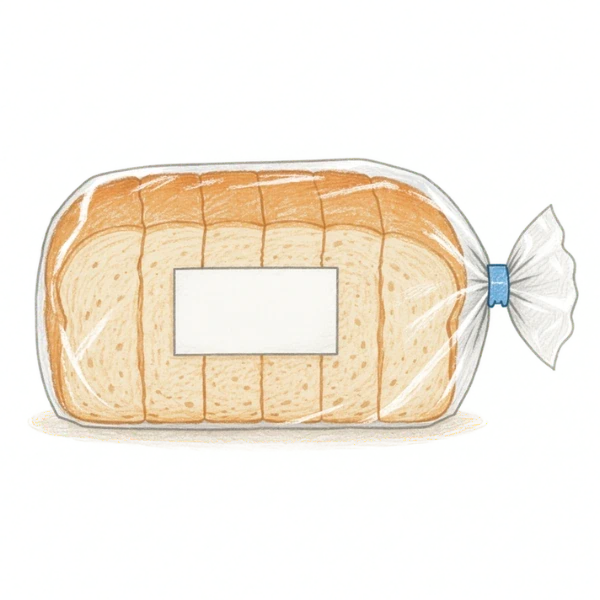
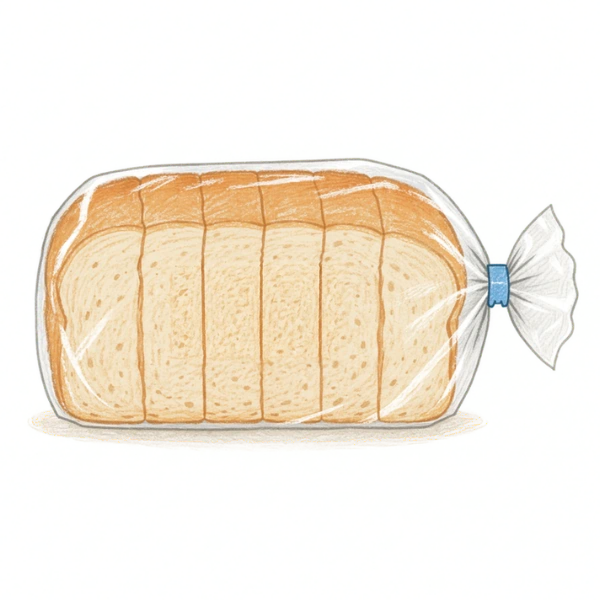
No dates on the packages, new pictures, and Level 3 dates printed many ways
Alex, 11/19 21:06 UTC: redesign everything with best judgment and
upload it. Each date now shows only in its big box, and the nine food
pictures are version 2 from the classroom-assets library (no label;
yogurt, juice, cereal and cheese redrawn). The title shapes are refit
to the new cut-outs.

Level 3 (Alex, 21:16 UTC) prints dates the many ways real packages do:
MM/DD/YY, MM-DD-YY, MM.DD.YY, crammed MMDDYY and MMDDYYYY, 28NOV26,
28 NOV 2026, NOV 28 2026, month and year only, PACKED ON next to
USE BY, and a time and lot code on the date's line.

Claude-Session: https://claude.ai/code/session_01GS4FCtH8NQj7wZM8dNiEyw

Changed region(s): [[0.27, 0.42, 0.57, 0.6]]

diff --git a/js/game.js b/js/game.js
@@ -3,14 +3,15 @@
    (js/ff-engine.js, an exact copy: sounds, tactile buttons, confetti, flying star, cheer line, round stamps, game-show win,
    narrator, opening page; Alex 11/19: "copy the entire game engine and framework of the fun friday game"). This file holds
    only what is new: the dates, the rounds, the calendar, the phone and the feedback. Pictures: Canva colored pencil,
-   from the classroom-assets library. Level 1 (Alex 11/19, 20:24 UTC): one food at a time, "Is it expired or not?".
-   Find the Date! (find/, built by its own thread, see find/README.md) starts from the level pick.
+   from the classroom-assets library. Alex 11/19 (20:20 UTC): no date on the packages in these three levels; each date is
+   shown in the big date box under its food. Level 1 (20:24 UTC): one food at a time, "Is it expired or not?".
+   Find the Date! (find/, built by its own thread) starts from the level pick.
    This is a public page: no student names or student data anywhere in it. */
 'use strict';
 /* From the engine: $, i (the round, 0-5), done (rounds won), easy (hint on), sound, calm, unit, SFX, say, stamps, burst,
    flyStar, party, bigWin, speak, hush, showOpen, opened. */
 const Q=new URLSearchParams(location.search);
-const gunit=()=>Math.min(innerHeight/100,innerWidth*.005625,(innerWidth-32)/175);   /* = this game's --u in the CSS */
+const gunit=()=>Math.min(innerHeight/100,innerWidth*.005625,(innerWidth-32)/175);   /* = this game's --u in the CSS (Find the Date uses it) */
 
 /* ---------- random numbers (?seed=N repeats the same rounds, for testing) ---------- */
 let seed=(Number(Q.get('seed'))>>>0)||0;
@@ -35,19 +36,18 @@ function realToday(){
 }
 
 /* ---------- the foods ----------
-   box = where the blank label sits on the 600 px Canva picture (% of the picture, measured from its pixels: labelbox.py);
    kw = the key word printed before the date; drink / many change the words we say. */
 const ART='assets/foods/';
 const FOODS={
-  milk:     {alt:'Milk carton',        noun:'milk',      kw:'USE BY',  drink:1,box:[31.2,33.7,24,17.6],rot:1.7},
-  bread:    {alt:'Bag of bread',       noun:'bread',     kw:'BEST BY', box:[29.3,45,26.5,13.7]},
-  eggs:     {alt:'Egg carton',         noun:'eggs',      kw:'EXP',     many:1,box:[35.7,47,41.3,9.7],sk:-5.8},
-  yogurt:   {alt:'Yogurt cup',         noun:'yogurt',    kw:'USE BY',  box:[32.6,52.8,33.6,16.2]},
-  juice:    {alt:'Orange juice bottle',noun:'juice',     kw:'BEST BY', drink:1,box:[38.8,48.7,22.2,15.7]},
-  cheese:   {alt:'Swiss cheese',       noun:'cheese',    kw:'EXP',     box:[35.7,45.2,30.7,16.1],rot:4},
-  tortillas:{alt:'Bag of tortillas',   noun:'tortillas', kw:'BEST BY', many:1,box:[33,41.7,33.8,15.5]},
-  cereal:   {alt:'Cereal box',         noun:'cereal',    kw:'BEST IF USED BY',box:[32.3,19.2,41.2,15.5],sk:-3.4},
-  soup:     {alt:'Can of soup',        noun:'soup',      kw:'BEST BY', box:[31.3,33.5,37,10.2]}
+  milk:     {alt:'Milk carton',        noun:'milk',      kw:'USE BY',  drink:1},
+  bread:    {alt:'Bag of bread',       noun:'bread',     kw:'BEST BY'},
+  eggs:     {alt:'Egg carton',         noun:'eggs',      kw:'EXP',     many:1},
+  yogurt:   {alt:'Yogurt cup',         noun:'yogurt',    kw:'USE BY'},
+  juice:    {alt:'Orange juice bottle',noun:'juice',     kw:'BEST BY', drink:1},
+  cheese:   {alt:'Swiss cheese',       noun:'cheese',    kw:'EXP'},
+  tortillas:{alt:'Bag of tortillas',   noun:'tortillas', kw:'BEST BY', many:1},
+  cereal:   {alt:'Cereal box',         noun:'cereal',    kw:'BEST IF USED BY'},
+  soup:     {alt:'Can of soup',        noun:'soup',      kw:'BEST BY'}
 };
 
 /* ---------- the rounds (teacher plan: each level fades one support; see README) ----------
@@ -66,13 +66,21 @@ const LEVELS=[
     {foods:['eggs','juice','cheese'],kinds:['prevM','nextM','pastM']},
     {foods:['milk','tortillas','bread'],kinds:['prevM','futM','yest']},
     {foods:['cheese','eggs','yogurt'],kinds:['nextM','pastM','prevM']}]},
+  /* Level 3: each date is printed a different way, as on real packages (Alex 11/19, 21:16 UTC: "the expiration date should be
+     printed in many different ways ... just crammed in ... crammed in with other numbers"). Formats from the Find the Date
+     Level 4 research (CFIA, USDA FSIS, Keyence, UEP): slashes, dashes, dots, no separators at all, a month word, month and year
+     only, PACKED ON next to USE BY, and times and lot codes on the same line. No Julian codes and no day-first numbers.
+     fmt: md/yy 11/28/26, md/yyyy 11/28/2026, md-yy 11-28-26, md.yy 11.28.26, mdyy 112826, mdyyyy 11282026, dMONyy 28NOV26,
+          d MON yyyy 28 NOV 2026, mon NOV 28 2026, MONyyyy NOV 2026 (never this month).
+     lay: '' key word, then the date; one = key word and date on one line; lot = a lot code and time line under it;
+          cram = the date with a time and a lot code on one line; packed = PACKED ON and its date, then the key word and date. */
   {name:'Level 3',hintAfter:2,rounds:[
-    {foods:['bread','yogurt','eggs'],kinds:['pastM','futM','nextM'],fixed:true},
-    {foods:['milk','cheese','juice'],kinds:['futM','pastM','yest']},
-    {foods:['tortillas','milk','yogurt'],kinds:['nextM','prevM','futM'],fmt:['md/yyyy']},
-    {foods:['cereal','bread','eggs'],kinds:['nextY','pastM','soon'],fmt:['mon'],lot:true,year:true},
-    {foods:['soup','juice','cheese'],kinds:['prevY','futM','nextM'],fmt:['md/yyyy'],lot:true,year:true},
-    {foods:['cereal','tortillas','soup'],kinds:['nextY','futM','soon'],fmt:['mon','md/yyyy','md/yyyy'],lot:true,year:true}]}
+    {foods:['bread','yogurt','eggs'],kinds:['pastM','futM','nextM'],fmt:['md/yy','md-yy','dMONyy'],fixed:true},
+    {foods:['milk','cheese','juice'],kinds:['futM','pastM','yest'],fmt:['mdyy','md.yy','mon'],lay:['one']},
+    {foods:['tortillas','milk','yogurt'],kinds:['nextM','prevM','futM'],fmt:['md/yyyy','mdyyyy','d MON yyyy'],lay:['lot','cram'],kw:{milk:'BB'}},
+    {foods:['cereal','bread','eggs'],kinds:['nextY','pastM','soon'],fmt:['MONyyyy','mdyy','md-yy'],lay:['','cram','lot'],kw:{bread:'BB'},year:true},
+    {foods:['soup','juice','cheese'],kinds:['prevY','futM','nextM'],fmt:['md/yyyy','mdyy','md/yy'],lay:['lot','cram','packed'],kw:{cheese:'USE BY'},year:true},
+    {foods:['cereal','tortillas','soup'],kinds:['nextY','futM','soon'],fmt:['mon','dMONyy','mdyyyy'],lay:['lot','cram','lot'],kw:{tortillas:'BB'},year:true}]}
 ];
 
 /* ---------- state ---------- */
@@ -97,12 +105,18 @@ function l1Kinds(){
     if(!k.some((x,j)=>j>1&&x===k[j-1]&&x===k[j-2]))return k}
 }
 function lotCode(){return 'L'+ri(1,9)+ri(100,999)+' '+p2(ri(5,22))+':'+p2(ri(0,59))}
+function cramTail(){return p2(ri(5,22))+':'+p2(ri(0,59))+' L'+ri(1,9)}   /* the time and lot code printed on the date's line */
 function makeRound(plan){
   for(let n=0;n<80;n++){
-    const cards=plan.foods.map((f,i)=>{const d=makeDate(plan.kinds[i]);
-      return {food:f,kind:plan.kinds[i],date:d,good:d>T,kw:(plan.kw&&plan.kw[f])||FOODS[f].kw,fmt:(plan.fmt&&plan.fmt[i])||'md/yy',lot:plan.lot?lotCode():''}});
-    const ks=cards.map(c=>key(c.date));
+    const cards=plan.foods.map((f,i)=>{const d=makeDate(plan.kinds[i]),lay=(plan.lay&&plan.lay[i])||'';
+      const c={food:f,kind:plan.kinds[i],date:d,good:d>T,kw:(plan.kw&&plan.kw[f])||FOODS[f].kw,fmt:(plan.fmt&&plan.fmt[i])||'md/yy',lay,
+        lot:lay==='lot'?lotCode():'',tail:lay==='cram'?cramTail():''};
+      if(lay==='packed')c.packed=new Date(T.getFullYear(),T.getMonth(),T.getDate()-ri(2,8));   /* packed a few days ago */
+      return c});
+    const ks=cards.map(c=>key(c.date)).concat(cards.filter(c=>c.packed).map(c=>key(c.packed)));
     if(new Set(ks).size<ks.length||ks.includes(key(T)))continue;
+    if(cards.some(c=>c.fmt==='MONyyyy'&&ym(c.date)===ym(T)))continue;   /* month and year only: never this month (it can't be judged) */
+    if(cards.some(c=>c.packed&&!(c.packed<c.date&&c.packed<T)))continue;
     return {plan,cards:plan.fixed?cards:shuffle(cards)};
   }
 }
@@ -118,13 +132,16 @@ function newLevel(n){
 }
 
 /* ---------- words ---------- */
-function printed(c){                                  /* the date as it is printed on the package */
-  const d=c.date,M=MON[d.getMonth()],dd=d.getDate(),mm=p2(d.getMonth()+1);
-  if(LV<2)return M+' '+dd;
-  if(c.fmt==='md/yyyy')return mm+'/'+p2(dd)+'/'+d.getFullYear();
-  if(c.fmt==='mon')return M+' '+p2(dd)+' '+d.getFullYear();
-  return mm+'/'+p2(dd)+'/'+p2(d.getFullYear()%100);
+function printed(c,d){                                /* the date as it is printed on the package (d: another date on it) */
+  d=d||c.date;const M=MON[d.getMonth()],dd=p2(d.getDate()),mm=p2(d.getMonth()+1),Y=String(d.getFullYear()),yy=Y.slice(2);
+  if(LV<2)return M+' '+d.getDate();
+  return {'md/yyyy':mm+'/'+dd+'/'+Y,'md-yy':mm+'-'+dd+'-'+yy,'md.yy':mm+'.'+dd+'.'+yy,'mdyy':mm+dd+yy,'mdyyyy':mm+dd+Y,
+    'dMONyy':dd+M+yy,'d MON yyyy':dd+' '+M+' '+Y,'mon':M+' '+dd+' '+Y,'MONyyyy':M+' '+Y}[c.fmt]||mm+'/'+dd+'/'+yy;
 }
+/* Level 3: a crammed date read back in the phone's numbers, so the class hears how to read it */
+const CRAMMED={'mdyy':1,'mdyyyy':1,'dMONyy':1};
+function plain(c){const d=c.date;return c.fmt==='dMONyy'?MON[d.getMonth()]+' '+d.getDate()+' '+d.getFullYear():p2(d.getMonth()+1)+'/'+p2(d.getDate())+'/'+p2(d.getFullYear()%100)}
+function dateSaid(c){return LV===2&&CRAMMED[c.fmt]?printed(c)+' means '+plain(c)+'. It '+why(c):printed(c)+' '+why(c)}
 const WHY={pastM:'is before today',yest:'was yesterday',futM:'is after today',soon:'is tomorrow',prevM:'was last month',nextM:'is next month',nextY:'is next year',prevY:'was last year'};
 function why(c){
   const sameM=ym(c.date)===ym(T);
@@ -133,34 +150,35 @@ function why(c){
 }
 const it=c=>FOODS[c.food].many?'them':'it';
 const eat=c=>FOODS[c.food].drink?'drink':'eat';
-function goodLine(c){return 'Still good! '+printed(c)+' '+why(c)+'.'}
-function badLine(c){return 'Expired! '+printed(c)+' '+why(c)+'. Don’t '+eat(c)+' '+it(c)+'.'}
+const PACKNOTE=' PACKED ON is the day it was packed.';
+function goodLine(c){return 'Still good! '+dateSaid(c)+'.'+(c.packed?PACKNOTE:'')}
+function badLine(c){return 'Expired! '+dateSaid(c)+'. Don’t '+eat(c)+' '+it(c)+'.'}
 function spoken(c){const d=c.date;return MONTH[d.getMonth()]+' '+d.getDate()+', '+d.getFullYear()}
 
 /* ---------- the pieces of a round ---------- */
 function dotLine(s,cls){return dotText(s).replace('class="dots"','class="dots '+cls+'"')}
 function kwLines(kw){return kw==='BEST IF USED BY'?['BEST IF','USED BY']:[kw]}
 const cols=s=>s.length*6-1;                          /* dot columns of a dot-matrix line */
-function labelParts(c,dpw){
-  const f=FOODS[c.food],t=printed(c);
-  if(LV===0){const [M,dd]=t.split(' ');
-    return {small:'<span class="mo">'+M+'</span><span class="dd">'+dd+'</span>',big:'<div class="row"><span class="mo">'+M+'</span><span class="dd">'+dd+'</span></div>'}}
-  if(LV===1)return {small:'<span class="kw">'+c.kw+'</span><span class="dt">'+t+'</span>',big:'<span class="kw'+(c.kw.length>8?' long':'')+'">'+c.kw+'</span><span class="dt">'+t+'</span>'};
-  /* Level 3: dot-matrix print, like a real inkjet date. The small copy on the package gets a dot size that fits its label. */
-  const lines=[...kwLines(c.kw).map(s=>[s,'kline']),[t,'dline']];if(c.lot)lines.push([c.lot,'lot']);
-  const h=lines.map(([s,k])=>dotLine(s,k)).join('');
-  const [,,lw,lh]=f.box,mc=Math.max(...lines.map(([s])=>cols(s))),n=lines.length;
-  const dp=Math.min(.3,.86*lw/mc,.86*lh/(8.6*n-1.6));
-  return {small:h,big:h,st:'--dp:'+dp.toFixed(3)+'cqw'};
+function dateBox(c){                                  /* the big date box under a food (the package itself has no date) */
+  const t=printed(c);
+  if(LV===0){const [M,dd]=t.split(' ');return '<div class="row"><span class="mo">'+M+'</span><span class="dd">'+dd+'</span></div>'}
+  if(LV===1)return '<span class="kw'+(c.kw.length>8?' long':'')+'">'+c.kw+'</span><span class="dt">'+t+'</span>';
+  /* Level 3: dot-matrix print, like a real inkjet date */
+  return labelLines(c).map(([s,k])=>dotLine(s,k)).join('');
+}
+/* Level 3: the printed lines of a label, [text, kind], in the round's layout for this food */
+function labelLines(c){
+  const t=printed(c),kw=kwLines(c.kw).map(s=>[s,'kline']);
+  if(c.lay==='one')return [[c.kw+' '+t,'dline one']];
+  if(c.lay==='cram')return [...kw,[t+' '+c.tail,'dline']];
+  if(c.lay==='packed')return [['PACKED ON','kline'],[printed(c,c.packed),'pline'],...kw.map(([s])=>[s,'kline after']),[t,'dline']];
+  return [...kw,[t,'dline'],...(c.lot?[[c.lot,'lot']]:[])];
 }
 /* a food card. Levels 2 and 3: the card is the answer (tap it). Level 1: the card only shows the food; the answer buttons are beside it. */
 function cardHTML(c,i){
-  const f=FOODS[c.food],[lx,ly,lw,lh]=f.box,lab=labelParts(c);
-  const wide=LV===0&&lw/lh>2.6?' wide':'',tag=LV===0?'div':'button',role=LV===0?' role="img"':'';
+  const tag=LV===0?'div':'button',role=LV===0?' role="img"':'';
   return '<'+tag+' class="choice food" style="--i:'+i+'" data-i="'+i+'"'+role+' aria-label="'+tileWords(c)+'">'+
-    '<div class="pic" style="--lx:'+lx+'%;--ly:'+ly+'%;--lw:'+lw+'%;--lh:'+lh+'%;--rot:'+(f.rot||0)+'deg;--sk:'+(f.sk||0)+'deg">'+
-    '<img src="'+ART+c.food+'.webp" alt="" draggable="false"><div class="plabel'+wide+'"'+(lab.st?' style="'+lab.st+'"':'')+'>'+lab.small+'</div></div>'+
-    '<svg class="cone" aria-hidden="true"></svg><div class="win">'+lab.big+'</div></'+tag+'>';
+    '<div class="pic"><img src="'+ART+c.food+'.webp" alt="" draggable="false"></div><div class="win">'+dateBox(c)+'</div></'+tag+'>';
 }
 /* Level 1: the two answers, always in the same place (Expired on top), in the words of the question */
 const ICON={bad:'<path d="M7 7l10 10M17 7L7 17"/>',good:'<path d="M5.5 12.5l4.2 4.2L18.5 7.5"/>'};
@@ -230,7 +248,6 @@ function setHint(on,auto){
   if(on){h.textContent=HINT[LV]();h.hidden=false;cardsOf().forEach(c=>pin(c,true))}
   else{document.querySelectorAll('#main .pin[data-h]').forEach(p=>{const host=p.parentNode;p.remove();if(host&&!host.querySelector('.pin'))host.classList.remove('lit')});
     if(i===0){h.textContent=TOGETHER[LV];h.hidden=false}else h.hidden=true}
-  cones();
 }
 function miss(){tries++;if(!easy&&tries>=LEVELS[LV].hintAfter)setHint(true,true)}
 
@@ -267,7 +284,8 @@ function checkDone(){
     bad.forEach(c=>{c.el.classList.remove('sel');c.el.classList.add('no');verdict(c)});
     SFX.oops();say(bad.length===1?badLine(bad[0]):'Those are expired. Their dates are before today.',true);miss();doneState();return}
   const left=cs.filter(c=>c.good&&!c.el.classList.contains('sel'));
-  if(left.length){SFX.oops();say(left.length===1?'There is 1 more food that is still good.':'There are '+left.length+' more foods that are still good.',true);miss();return}
+  if(left.length){SFX.oops();say((left.length===1?'There is 1 more food that is still good.':'There are '+left.length+' more foods that are still good.')+
+    (left.some(c=>c.packed)?' Check USE BY, not PACKED ON.':''),true);miss();return}
   cs.forEach(c=>{verdict(c);if(c.good){c.el.classList.remove('sel');c.el.classList.add('yes')}else c.el.classList.add('rest')});
   say(sel.length===cs.length?'All still good! Every date is after today.':'You found them all!');
   finish(sel[sel.length-1].el);
@@ -284,9 +302,9 @@ function renderRound(){
   const side=LV===2?phoneHTML(rd):calHTML(rd),cards=rd.cards.map(cardHTML);
   /* Level 3 prints every label in a round with the same dot size, sized to the longest line */
   let dpw='';
-  if(LV===2){const mc=Math.max(...rd.cards.flatMap(c=>[...kwLines(c.kw),printed(c),c.lot].filter(Boolean).map(cols)));dpw=' style="--dpw:calc(var(--u)*'+Math.min(.6,34.6/mc).toFixed(3)+')"'}
+  if(LV===2){const mc=Math.max(...rd.cards.flatMap(c=>labelLines(c).map(([s])=>cols(s))));dpw=' style="--dpw:calc(var(--u)*'+Math.min(.6,34.6/mc).toFixed(3)+')"'}
   m.className='';void m.offsetWidth;
-  const dense=LV===2&&rd.cards.some(c=>kwLines(c.kw).length+1+(c.lot?1:0)>3)?' dense':'';
+  const dense=LV===2&&rd.cards.some(c=>labelLines(c).length>3)?' dense':'';
   m.innerHTML='<div class="qrow"><h1 id="q">'+q+'</h1><p class="hint" id="hint"'+(i===0?'':' hidden')+'>'+(i===0?TOGETHER[LV]:'')+'</p></div>'+
     '<div class="stage'+dense+'"'+dpw+'>'+(LV===0?cards[0]+side+answersHTML():side+cards.join(''))+'</div>';
   m.classList.add('enter');
@@ -294,32 +312,7 @@ function renderRound(){
   m.querySelectorAll('.ans').forEach(b=>b.onclick=()=>answer(b));
   $('next').hidden=!done.has(i);$('donebtn').hidden=LV!==2||done.has(i);$('skip').hidden=false;
   if(LV===2)timer=setInterval(()=>{const p=$('ptime');if(p)p.textContent=clockNow()},15000);
-  fitLabels();requestAnimationFrame(cones);setTimeout(cones,520);
 }
-/* Levels 1 and 2: shrink the small printed label if a word is too long for that package's label */
-function fitLabels(){
-  if(LV===2)return;
-  document.querySelectorAll('#main .plabel').forEach(el=>{
-    let s=1;el.style.setProperty('--ls',1);
-    const kids=[...el.children],row=el.classList.contains('wide');
-    const fits=()=>{const W=el.clientWidth,H=el.clientHeight;
-      const w=row?kids.reduce((a,k)=>a+k.offsetWidth,0)*1.08:Math.max(...kids.map(k=>k.offsetWidth));
-      const h=row?Math.max(...kids.map(k=>k.offsetHeight)):kids.reduce((a,k)=>a+k.offsetHeight,0);
-      return w<=W*.94&&h<=H*.96};
-    while(!fits()&&s>.45){s-=.05;el.style.setProperty('--ls',s.toFixed(2))}
-  });
-}
-/* the "zoom" cone from the small label on the package to its big copy below */
-function cones(){
-  document.querySelectorAll('#main .food').forEach(c=>{
-    const cr=c.getBoundingClientRect(),l=c.querySelector('.plabel').getBoundingClientRect(),w=c.querySelector('.win').getBoundingClientRect(),svg=c.querySelector('.cone');
-    if(!cr.width)return;
-    svg.setAttribute('viewBox','0 0 '+cr.width.toFixed(1)+' '+cr.height.toFixed(1));
-    const pt=(x,y)=>(x-cr.left).toFixed(1)+','+(y-cr.top).toFixed(1),k=gunit()*.6;
-    svg.innerHTML='<polygon points="'+pt(l.left,l.top)+' '+pt(l.right,l.top)+' '+pt(w.right-k,w.top+k)+' '+pt(w.left+k,w.top+k)+'"/>';
-  });
-}
-addEventListener('resize',()=>{if(!$('game').hidden){fitLabels();cones()}});
 
 /* ---------- screens: the Fun Friday flow (Next and Skip go on, Back goes back, a whoosh between rounds, a party at the end) ---------- */
 function stopWin(){const ws=$('winstage');if(ws)WINFX.stop(ws)}
@@ -356,8 +349,9 @@ function showDone(){
    It reads the question when a round opens and the date on a package when it is tapped. Level 3 practises reading the printed
    date, so there it reads only the question. ---------- */
 const LINES={};
-const KWSAY={'USE BY':'Use by','BEST BY':'Best by','EXP':'Expires','BEST IF USED BY':'Best if used by'};
-function tileWords(c){return FOODS[c.food].alt+'. '+(LV===0?'':KWSAY[c.kw]+' ')+spoken(c)+'.'}
+const KWSAY={'USE BY':'Use by','BEST BY':'Best by','BB':'Best by','EXP':'Expires','BEST IF USED BY':'Best if used by'};
+function tileWords(c){const pk=c.packed?'Packed on '+MONTH[c.packed.getMonth()]+' '+c.packed.getDate()+', '+c.packed.getFullYear()+'. ':'';
+  return FOODS[c.food].alt+'. '+pk+(LV===0?'':KWSAY[c.kw]+' ')+(c.fmt==='MONyyyy'?MONTH[c.date.getMonth()]+' '+c.date.getFullYear():spoken(c))+'.'}
 function sayRound(){const q=$('q');if(q){LINES.q=q.textContent;speak('q',450)}}
 function sayTile(c){if(LV===2)return;LINES.t=tileWords(c);speak('t')}
 

diff --git a/css/game.css b/css/game.css
@@ -1,6 +1,7 @@
 /* Check the Date! This game's own screens, on top of the Fun Friday look and effects (ff-engine.css, loaded first).
-   The screens follow the sample pages Alex approved on 11/19 (Level 1, 2 and 3): food cards with the date label and a zoomed
-   copy, the wall calendar, the phone, plus the level pick and the level-done page in the same look.
+   The screens follow the sample pages Alex approved on 11/19 (Level 1, 2 and 3): food cards with a big date box, the wall
+   calendar, the phone, plus the level pick and the level-done page in the same look. Alex 11/19: no date on the packages
+   (the date box under each food has it); Level 1 shows one food and two answers, "Is it expired or not?".
    Pictures: Canva colored pencil, from the classroom-assets library. Every size is in --u, as in Fun Friday. */
 @font-face{font-family:"Baloo 2";src:url(../assets/fonts/baloo-2/Baloo2-latin-variable.woff2) format("woff2");font-weight:400 800;font-display:swap}
 @font-face{font-family:"Nunito";src:url(../assets/fonts/nunito/Nunito-latin-variable.woff2) format("woff2");font-weight:200 1000;font-display:swap}
@@ -32,20 +33,10 @@ main.enter .calwrap,main.enter .phonewrap{animation:rise .4s cubic-bezier(.2,1.2
 .l3 .stage{grid-template-columns:calc(var(--u)*28) repeat(3,calc(var(--u)*44))}
 .together-on .l1 .stage,.together-on.l1 .stage{grid-template-columns:calc(var(--u)*42) calc(var(--u)*62) calc(var(--u)*42)}
 
-/* ---------- a food = the package with its date label, and a big "zoomed" copy of that label so the whole class can read it ---------- */
+/* ---------- a food = the package (no date on it) and its big date box, so the whole class can read the date ---------- */
 .choice.food{padding:calc(var(--u)*1.4) calc(var(--u)*1.4) calc(var(--u)*2);gap:0}
-.pic{position:relative;width:100%;aspect-ratio:1;container-type:inline-size}
+.pic{position:relative;width:100%;aspect-ratio:1}
 .pic img{width:100%;height:100%;display:block;object-fit:contain;-webkit-user-drag:none;user-select:none}
-.plabel{position:absolute;left:var(--lx);top:var(--ly);width:var(--lw);height:var(--lh);transform:rotate(var(--rot,0deg)) skewY(var(--sk,0deg));transform-origin:0 50%;display:flex;flex-direction:column;align-items:center;justify-content:center;line-height:1;text-align:center;color:var(--ink);pointer-events:none;--dp:.3cqw}
-.plabel .mo,.plabel .dd,.plabel .dt{font-family:var(--display);font-weight:800}
-.l1 .plabel .mo{font-size:calc(5.2cqw*var(--ls,1))}.l1 .plabel .dd{font-size:calc(7.4cqw*var(--ls,1))}
-.plabel.wide{flex-direction:row;align-items:baseline;gap:.9cqw}
-.l2 .plabel .kw{font-family:var(--body);font-weight:900;font-size:calc(2.5cqw*var(--ls,1));letter-spacing:.05em}
-.l2 .plabel .dt{font-size:calc(5.2cqw*var(--ls,1))}
-.plabel .dots{height:auto;display:block;margin:calc(var(--dp)*.8) 0;opacity:.92}
-.plabel{overflow:hidden}
-.cone{position:absolute;inset:0;width:100%;height:100%;pointer-events:none;overflow:visible}
-.cone polygon{fill:rgba(31,111,214,.07);stroke:rgba(31,111,214,.28);stroke-width:2;stroke-linejoin:round}
 .win{position:relative;z-index:1;margin-top:calc(var(--u)*-1);background:#fff;border:calc(var(--u)*.35) solid var(--label);border-radius:calc(var(--u)*1.2);
   box-shadow:0 calc(var(--u)*.4) calc(var(--u)*1) rgba(18,48,92,.12);display:flex;flex-direction:column;align-items:center;justify-content:center;line-height:1;padding:calc(var(--u)*1.2) calc(var(--u)*2)}
 .win::before{content:"";position:absolute;left:calc(var(--u)*-2.2);top:calc(var(--u)*-2.2);width:calc(var(--u)*4.4);height:calc(var(--u)*4.4);border-radius:50%;
@@ -67,6 +58,10 @@ main.enter .calwrap,main.enter .phonewrap{animation:rise .4s cubic-bezier(.2,1.2
 /* a round where one date needs more lines (BEST IF USED BY): the cards stay one height, as in the approved samples; the picture keeps to the top, the zoomed copy to the bottom */
 .l3 .stage.dense>.choice.food{align-self:stretch;justify-content:space-between}
 .l3 .win .dots.lot{margin-top:calc(var(--u)*1.3);opacity:.85}
+.l3 .win .dots.one{margin-top:0}
+/* PACKED ON and its date, then the key word and the date that counts */
+.l3 .win .dots.pline{margin-top:calc(var(--u)*.7);opacity:.85}
+.l3 .win .dots.kline.after{margin-top:calc(var(--u)*1.3)}
 /* Level 1: the two answers, Expired on top, Not expired below (Fun Friday answer cards, with the Fun Friday word size) */
 .answers{display:flex;flex-direction:column;gap:calc(var(--u)*3.5)}
 .choice.ans{flex:1;justify-content:center;gap:calc(var(--u)*2);padding:calc(var(--u)*2)}

diff --git a/js/titlefx.js b/js/titlefx.js
@@ -5,8 +5,8 @@ const TFX=(()=>{
   const TD='assets/foods/';
   const FW=1920,FH=1080,R=Math.PI/180;
   /* each picture: box width, height (title-stage px) and the circles that cover its shape [x, y, r] from its centre (fitcircles.py) */
-  const SHAPE={"bread":[307.7,307.7,[[-66.8,0.5,70.6],[71.9,0.5,70.6]]],"cheese":[366.8,366.8,[[0.3,2.1,126.0]]],"eggs":[314.0,314.0,[[-62.6,-0.5,77.1],[63.1,-0.5,77.1]]],"juice":[310.0,310.0,[[1.0,-91.6,48.4],[1.0,0.0,48.4],[1.0,91.6,48.4]]],"milk":[314.6,314.6,[[-1.3,-75.6,65.9],[-1.3,72.5,65.9]]],"yogurt":[364.4,364.4,[[-0.6,5.5,126.0]]],
-    "tortillas":[347.8,347.8,[[-0.3,-0.6,126.0]]],"cereal":[331.4,331.4,[[-0.6,-54.2,88.3],[-0.6,49.2,88.3]]],"soup":[357.4,357.4,[[-0.3,-56.5,84.6],[-0.3,54.2,84.6]]]};
+  const SHAPE={"milk":[314.6,314.6,[[-1.3,-75.6,65.9],[-1.3,72.5,65.9]]],"bread":[307.7,307.7,[[-66.8,0.5,70.6],[71.9,0.5,70.6]]],"eggs":[314.0,314.0,[[-62.6,-0.5,77.1],[63.1,-0.5,77.1]]],"yogurt":[367.6,367.6,[[0.0,5.5,126.0]]],"juice":[315.2,315.2,[[0.3,-93.4,47.9],[0.3,-1.3,47.9],[0.3,90.8,47.9]]],"cheese":[371.7,371.7,[[0.3,2.2,126.0]]],
+    "tortillas":[347.8,347.8,[[-0.3,-0.6,126.0]]],"cereal":[328.8,328.8,[[-2.5,-46.6,93.6],[-2.5,46.1,93.6]]],"soup":[357.4,357.4,[[-0.3,-56.5,84.6],[-0.3,54.2,84.6]]]};
   /* picture, centre x, y, tilt (deg), layer (0 back, 1 middle, 2 front), size (1 = 280 px) */
   const ITEMS=[['milk',230,360,-8,1,1],['cheese',520,420,6,0,.9],['bread',250,760,-5,2,1],['eggs',520,885,4,1,.95],
     ['yogurt',1420,400,7,0,.9],['juice',1700,380,-6,2,1],['soup',1690,800,6,0,.9],['cereal',1430,870,-4,1,.95],

diff --git a/index.html b/index.html
@@ -43,7 +43,7 @@
       <button class="lvcard choice" data-l="2" style="--i:2">
         <span class="big">Level 3</span>
         <span class="art"><span class="mini-phone" aria-hidden="true"><span>Thursday<b>10:24</b></span></span><span class="mini-dots" id="minidots" aria-hidden="true"></span></span>
-        <span class="what">Printed dates. Today is on the phone.</span>
+        <span class="what">Dates printed many ways. Today is on the phone.</span>
       </button>
     </div>
     <!-- Find the Date! (find/): turn a package, find the date, say it -->

diff --git a/README.md b/README.md
@@ -5,16 +5,19 @@ A classroom TV game about expiration dates, in 3 levels of 6 rounds. The rule th
 
 The screens follow the sample pages Alex approved on 11/19/2026 (Level 1, 2 and 3). The engine is the
 Fun Friday game's own engine, copied as it is, so both games look, sound, click and celebrate the same way.
+Alex 11/19 (20:20 UTC): in these three levels there is no date on the packages; each date is shown only in the big
+date box under its food, and the pictures have no blank label. Level 1 (20:24 UTC) shows one food at a time.
 
 ## The levels (each one fades a support)
 
 | Level | What the class sees | How they find "today" | Supports |
 |---|---|---|---|
-| 1 | One food. "Is it expired or not?" Two answers: Expired, Not expired. The date is printed `NOV 12`. | A wall calendar with the past days crossed out | Crossed-out days; round 1 is "Do it together"; 3 expired and 3 still good, never 3 the same in a row |
+| 1 | One food. "Is it expired or not?" Two answers: Expired, Not expired. The date reads `NOV 12`. | A wall calendar with the past days crossed out | Crossed-out days; round 1 is "Do it together"; 3 expired and 3 still good, never 3 the same in a row |
 | 2 | Three foods, with `BEST BY`, `USE BY` and `EXP`. Rounds 4 to 6 use last and next month. | The calendar, today circled only | A month strip (last month, this month, next month); X's come back as a hint |
-| 3 | Three foods with printed dot dates (`11/16/26`, `11/16/2026`, `NOV 16 2026`), lot codes, other years. Tap every good food, then Done. | Today's date on a phone, like in real life | Today in numbers on the phone as a hint |
+| 3 | Three foods with dot-matrix dates printed many real ways: `11/16/26`, `11-16-26`, `11.16.26`, `111626`, `11162026`, `16NOV26`, `16 NOV 2026`, `NOV 16 2026`, `NOV 2026` (month and year only), `PACKED ON` next to `USE BY`, and times and lot codes on the same line. Other years. Tap every good food, then Done. | Today's date on a phone, like in real life | Today in numbers on the phone as a hint; a crammed date is read back in the phone's numbers |
 
-A hint appears after one wrong tap (Levels 1 and 2) or two (Level 3), or with the Easier button.
+A hint appears after one wrong tap (Levels 1 and 2) or two (Level 3), or with the Easier button. In Level 1 a wrong
+answer pins the food on its date on the calendar ("Look again. Find NOV 12 on the calendar.").
 No date is ever equal to today, and the game uses the real date of the day it is played.
 
 ## Find the Date!
@@ -55,8 +58,8 @@ python3 tools/ff_engine.py check ../fun-friday-game/index.html   # PASS = every 
 python3 tools/ff_engine.py build ../fun-friday-game/index.html   # copy the blocks again
 ```
 
-New in this game (in the approved look): the food cards with a printed date and a zoomed copy, the wall calendar
-with pins, the month strip, the phone, dot-matrix print (`js/dotmatrix.js`), the level pick and the level-done page.
+New in this game (in the approved look): the food cards with their big date box, the Level 1 answer buttons, the wall
+calendar with pins, the month strip, the phone, dot-matrix print (`js/dotmatrix.js`), the level pick and the level-done page.
 
 ## Pictures
 
